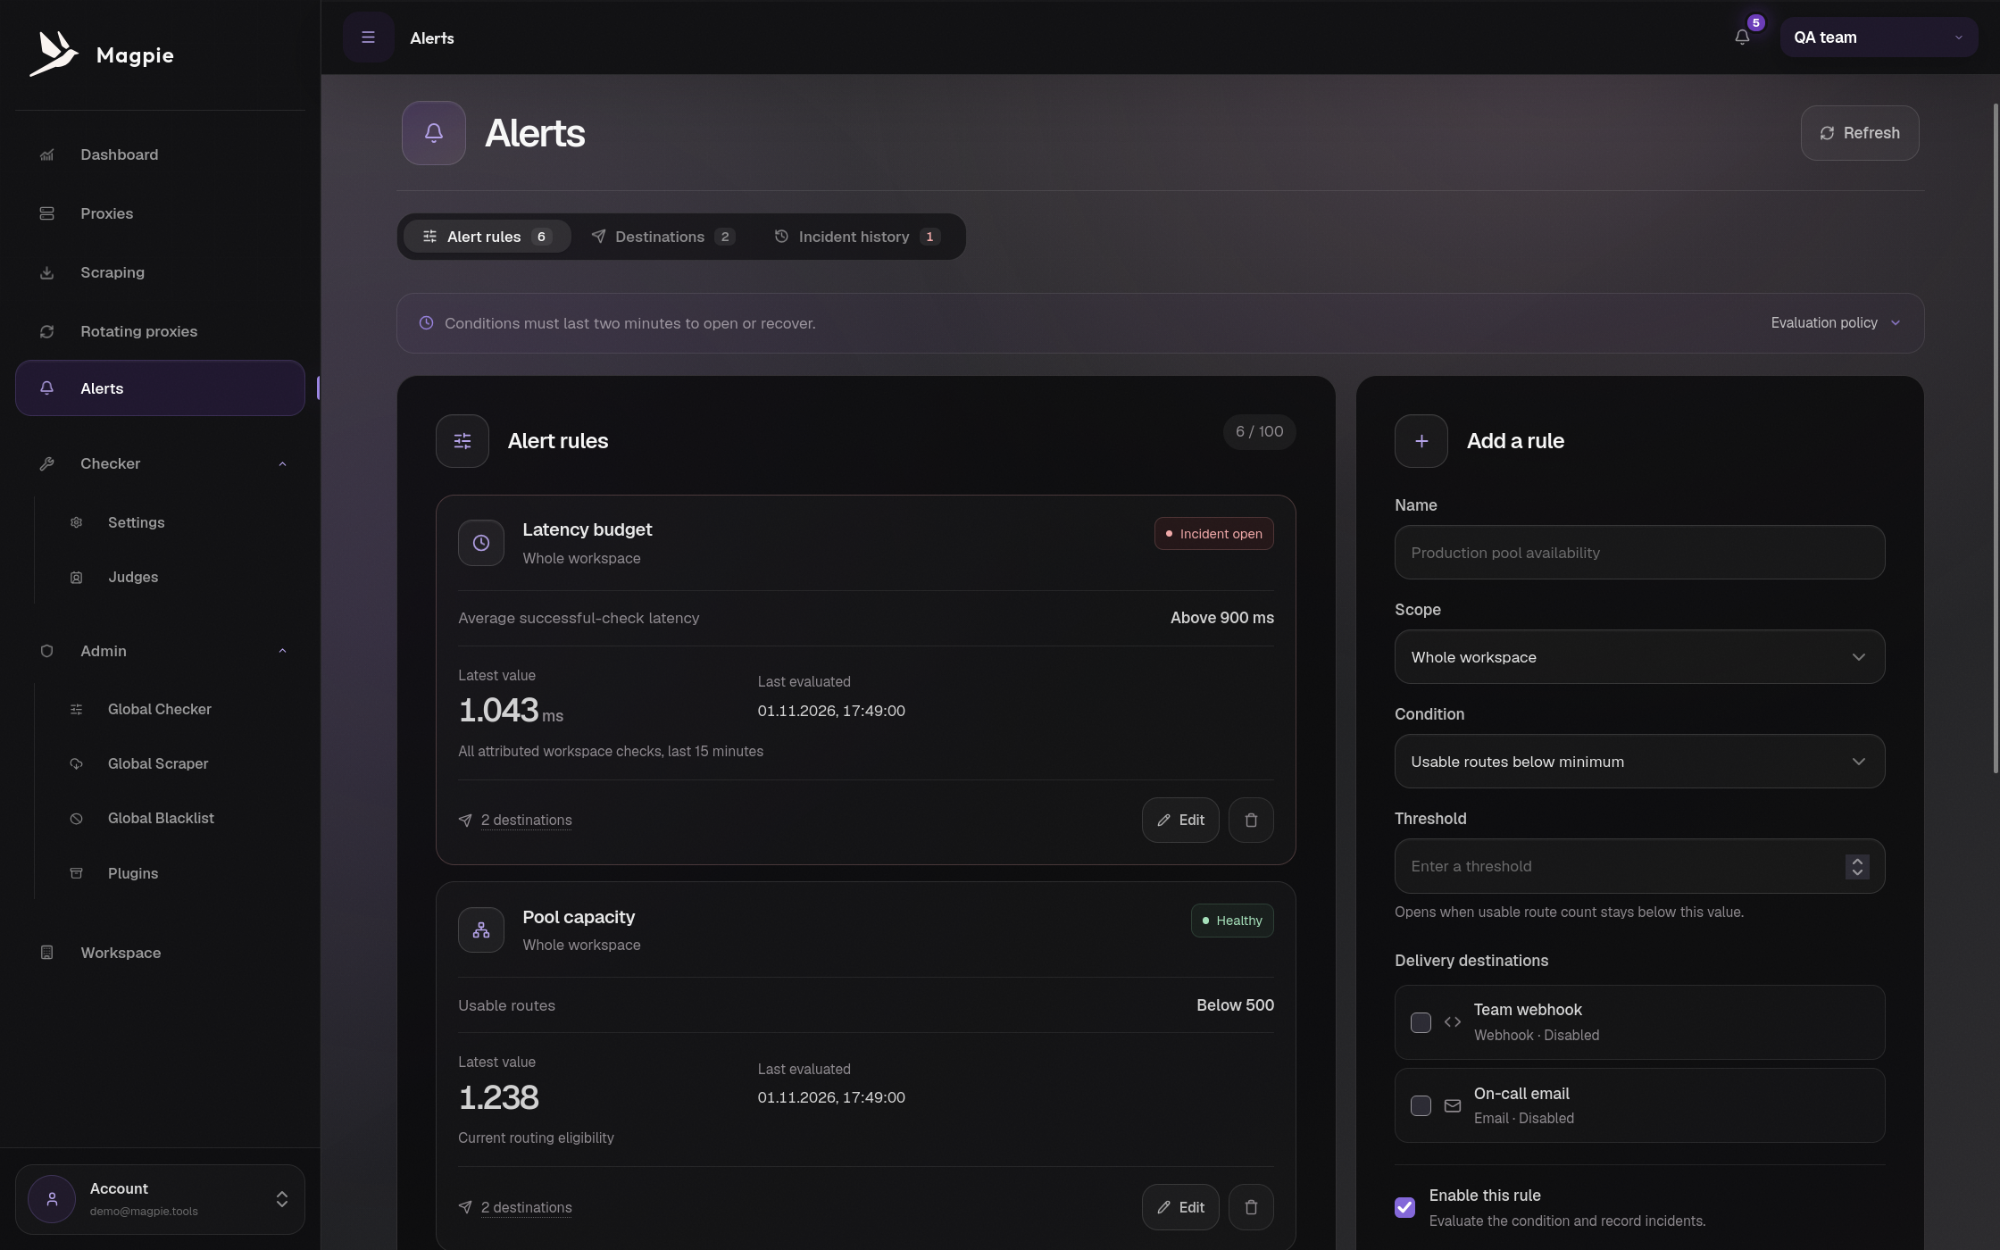
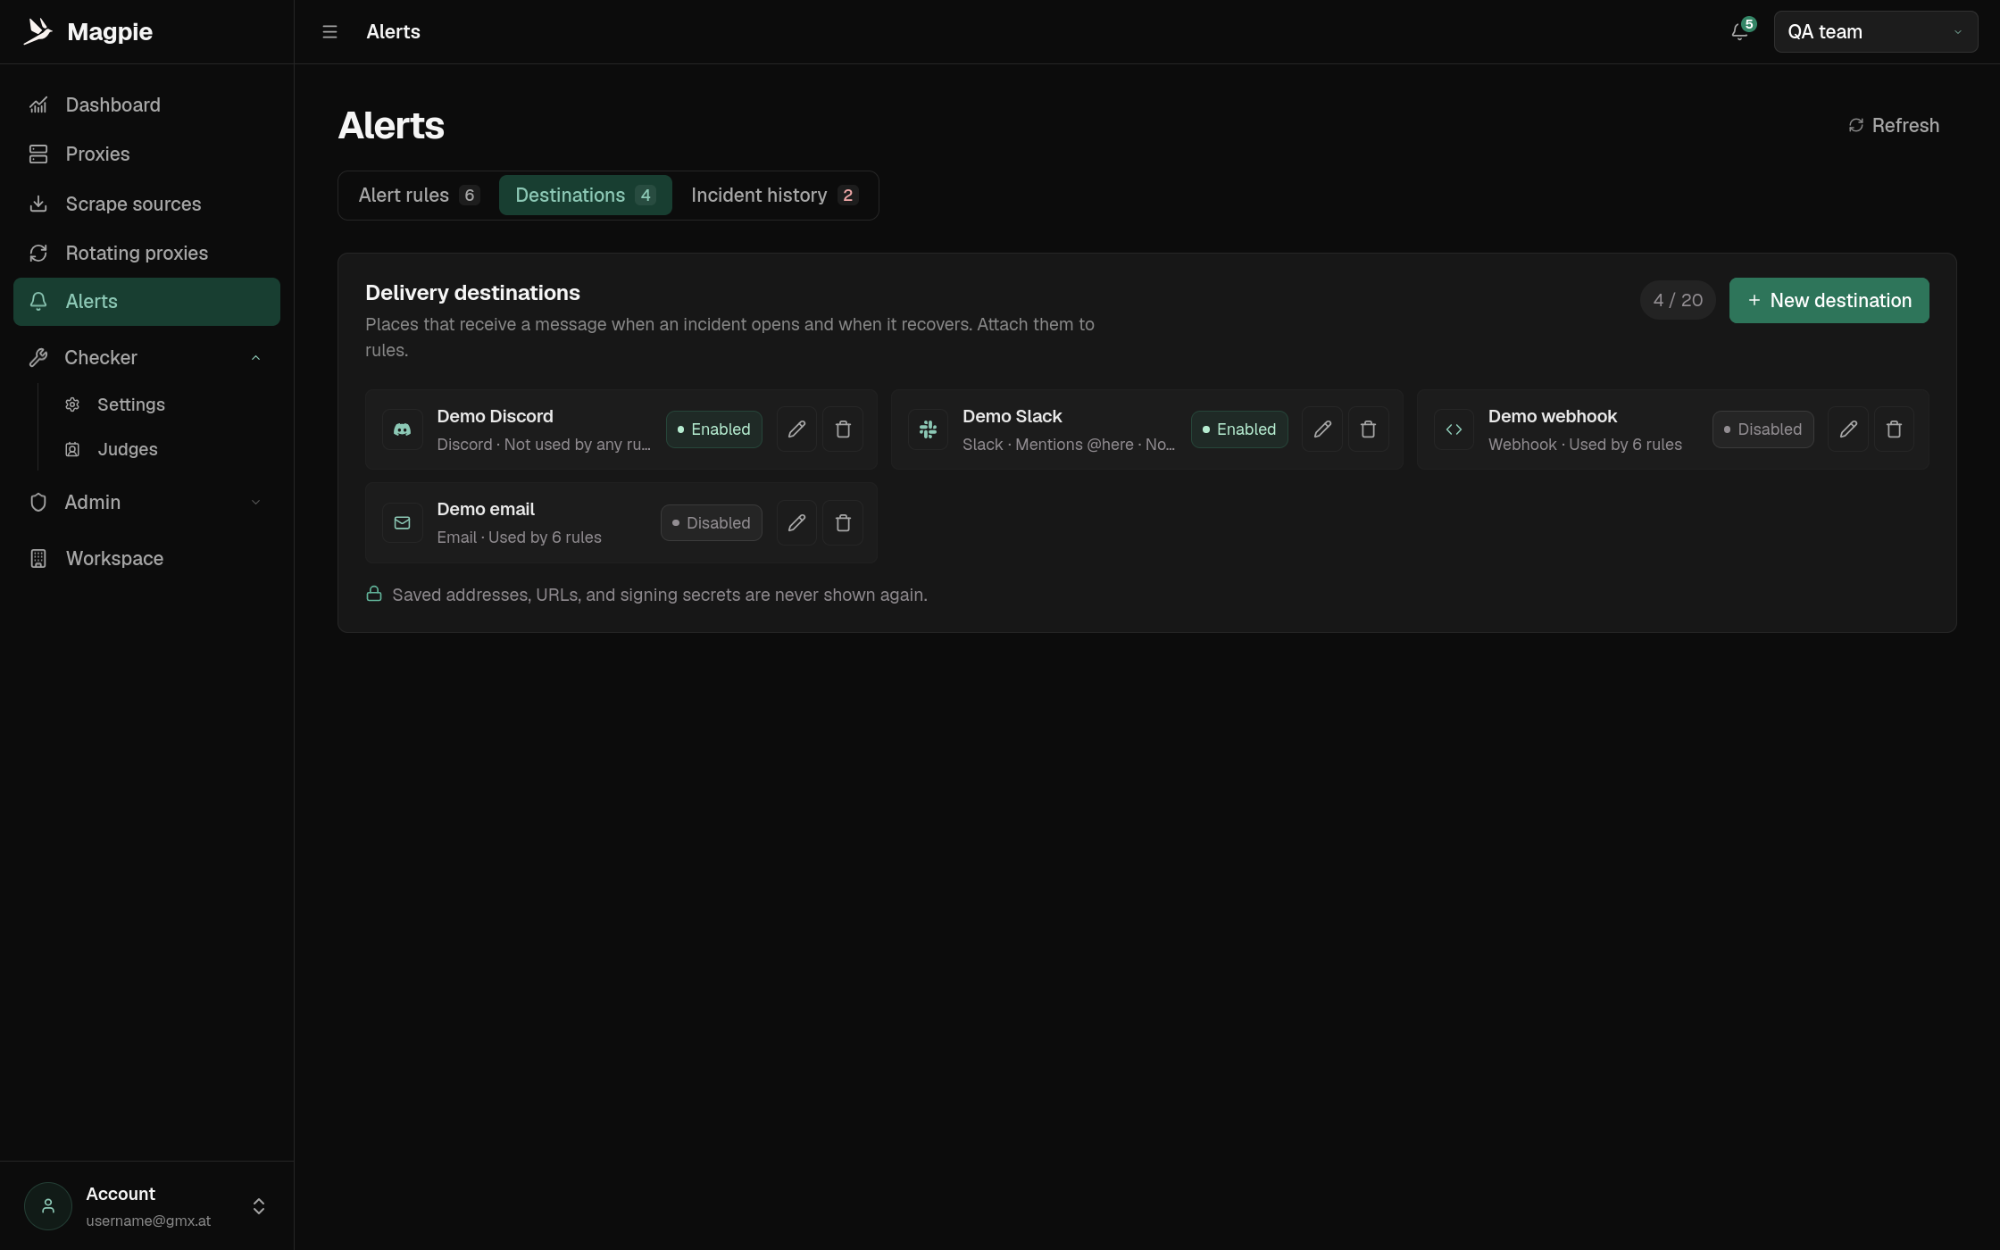
Refresh README screenshots for the Console design
Show the current dashboard, proxy list, proxy details, workspace
allowances, and alert destinations. The add proxies and scrape source
screenshots are no longer shown. The images are the lossless source
captures.

diff --git a/README.md b/README.md
@@ -48,9 +48,9 @@ dashboard, and connect your applications through the API or a rotating proxy.
 <details>
   <summary>More screenshots</summary>
   <img src="resources/screenshots/proxyList.png" alt="Proxy list">
-  <img src="resources/screenshots/addProxies.png" alt="Add proxies">
-  <img src="resources/screenshots/scrapeSources.png" alt="Scrape sources">
-  <img src="resources/screenshots/alerts.png" alt="Alert rules">
+  <img src="resources/screenshots/proxyDetails.png" alt="Proxy details">
+  <img src="resources/screenshots/workspace.png" alt="Workspace allowances">
+  <img src="resources/screenshots/alerts.png" alt="Alert destinations">
 </details>
 
 ## Install
